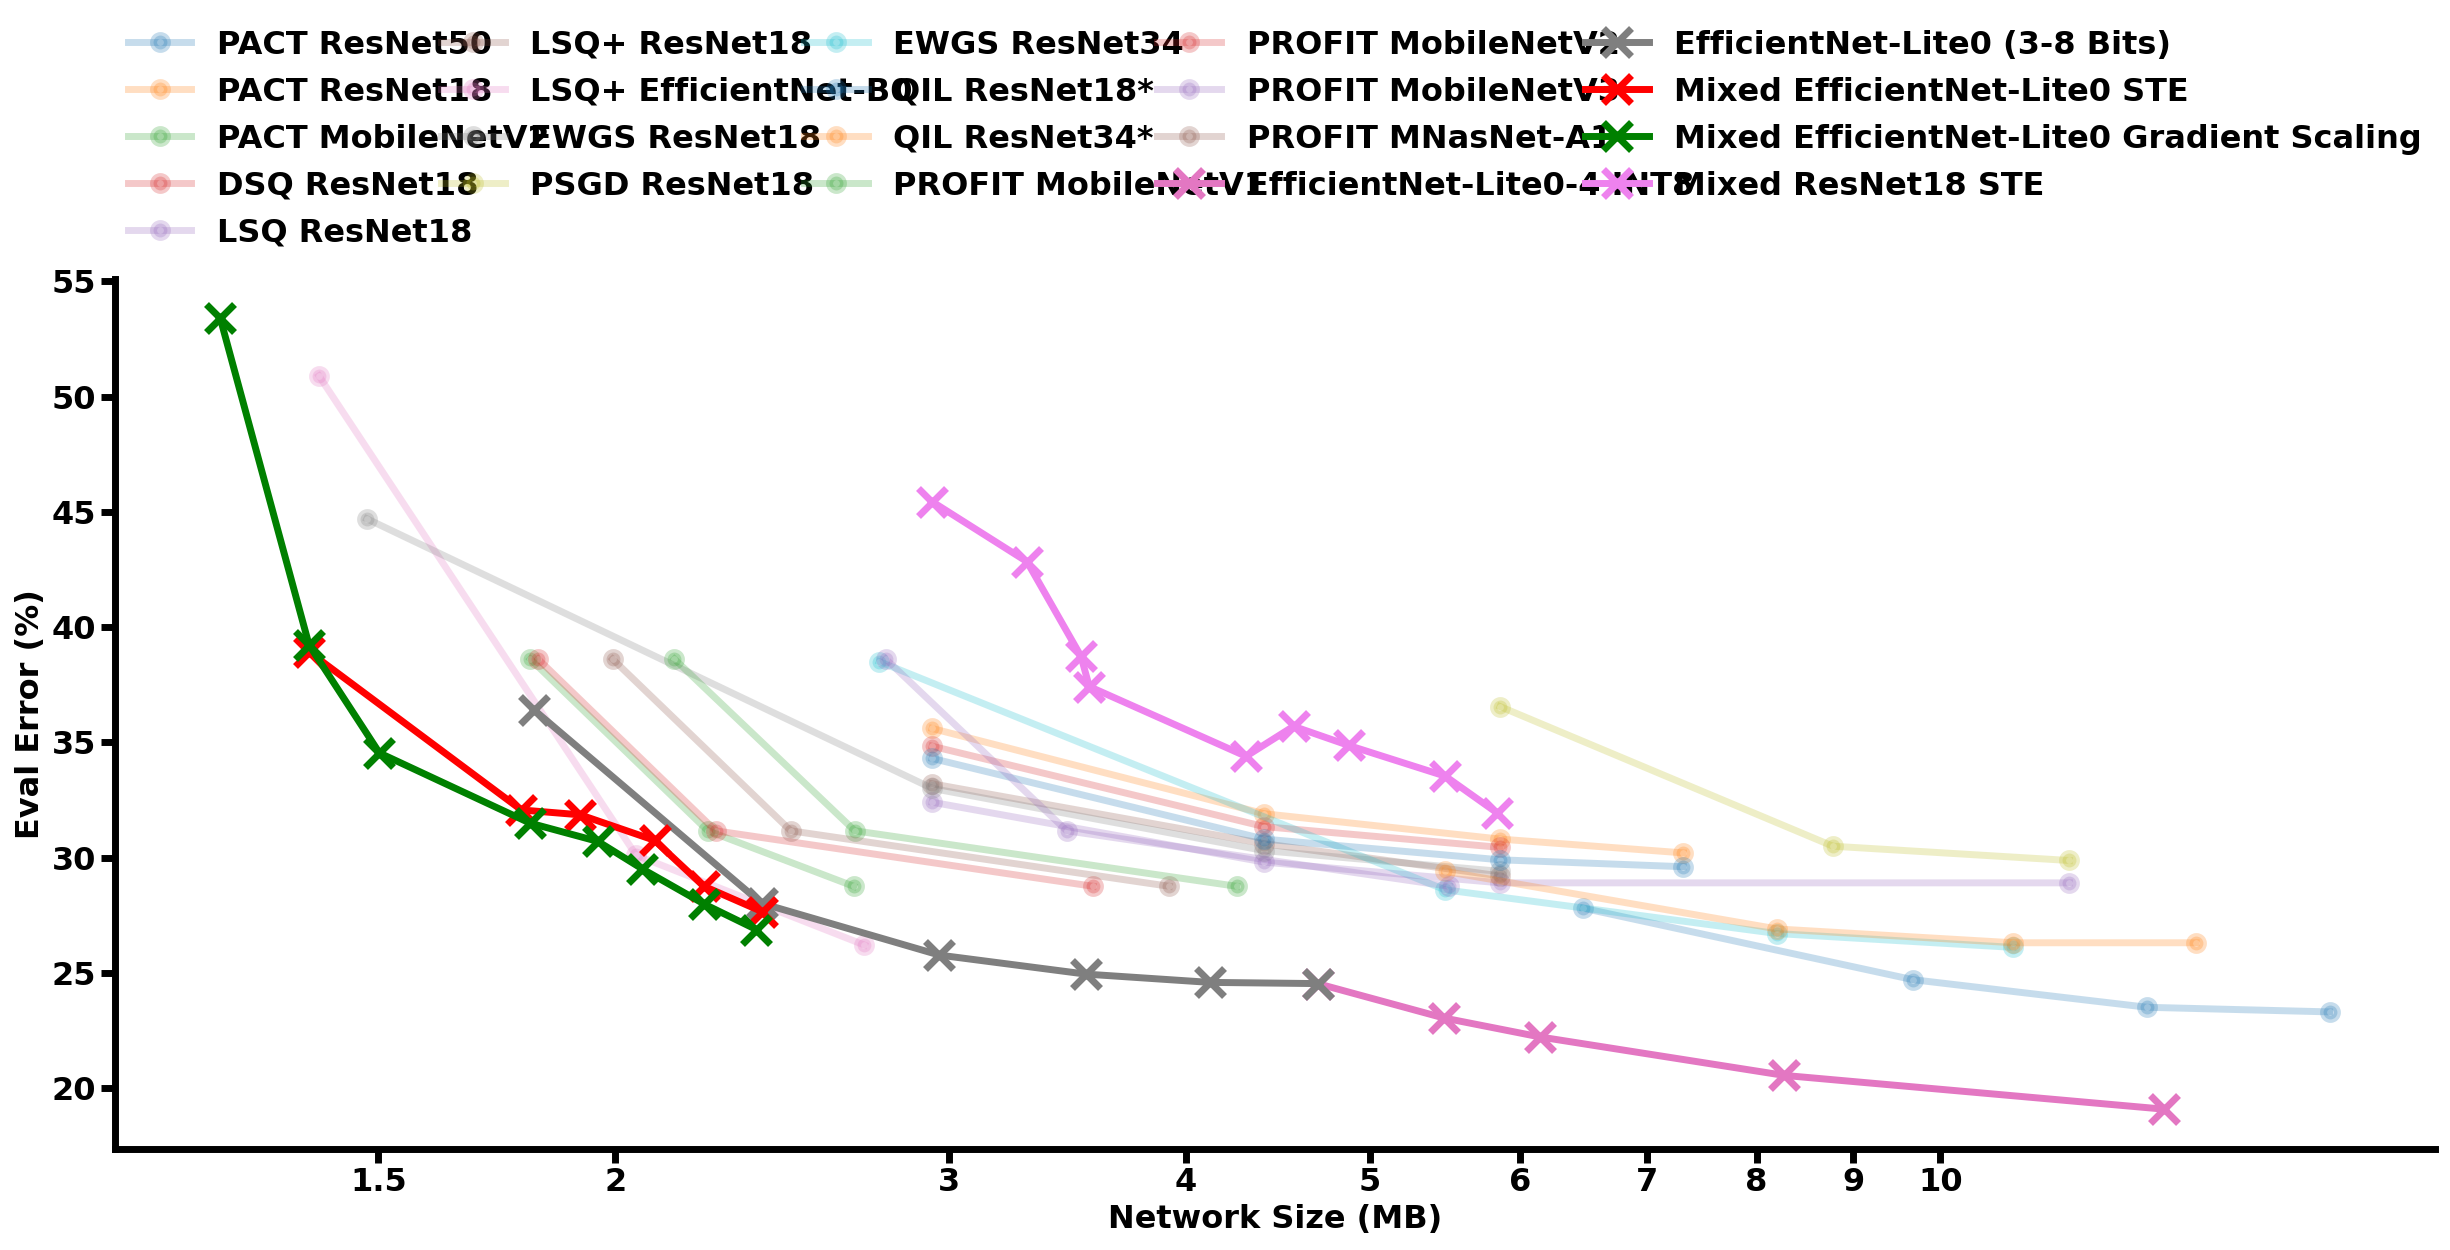
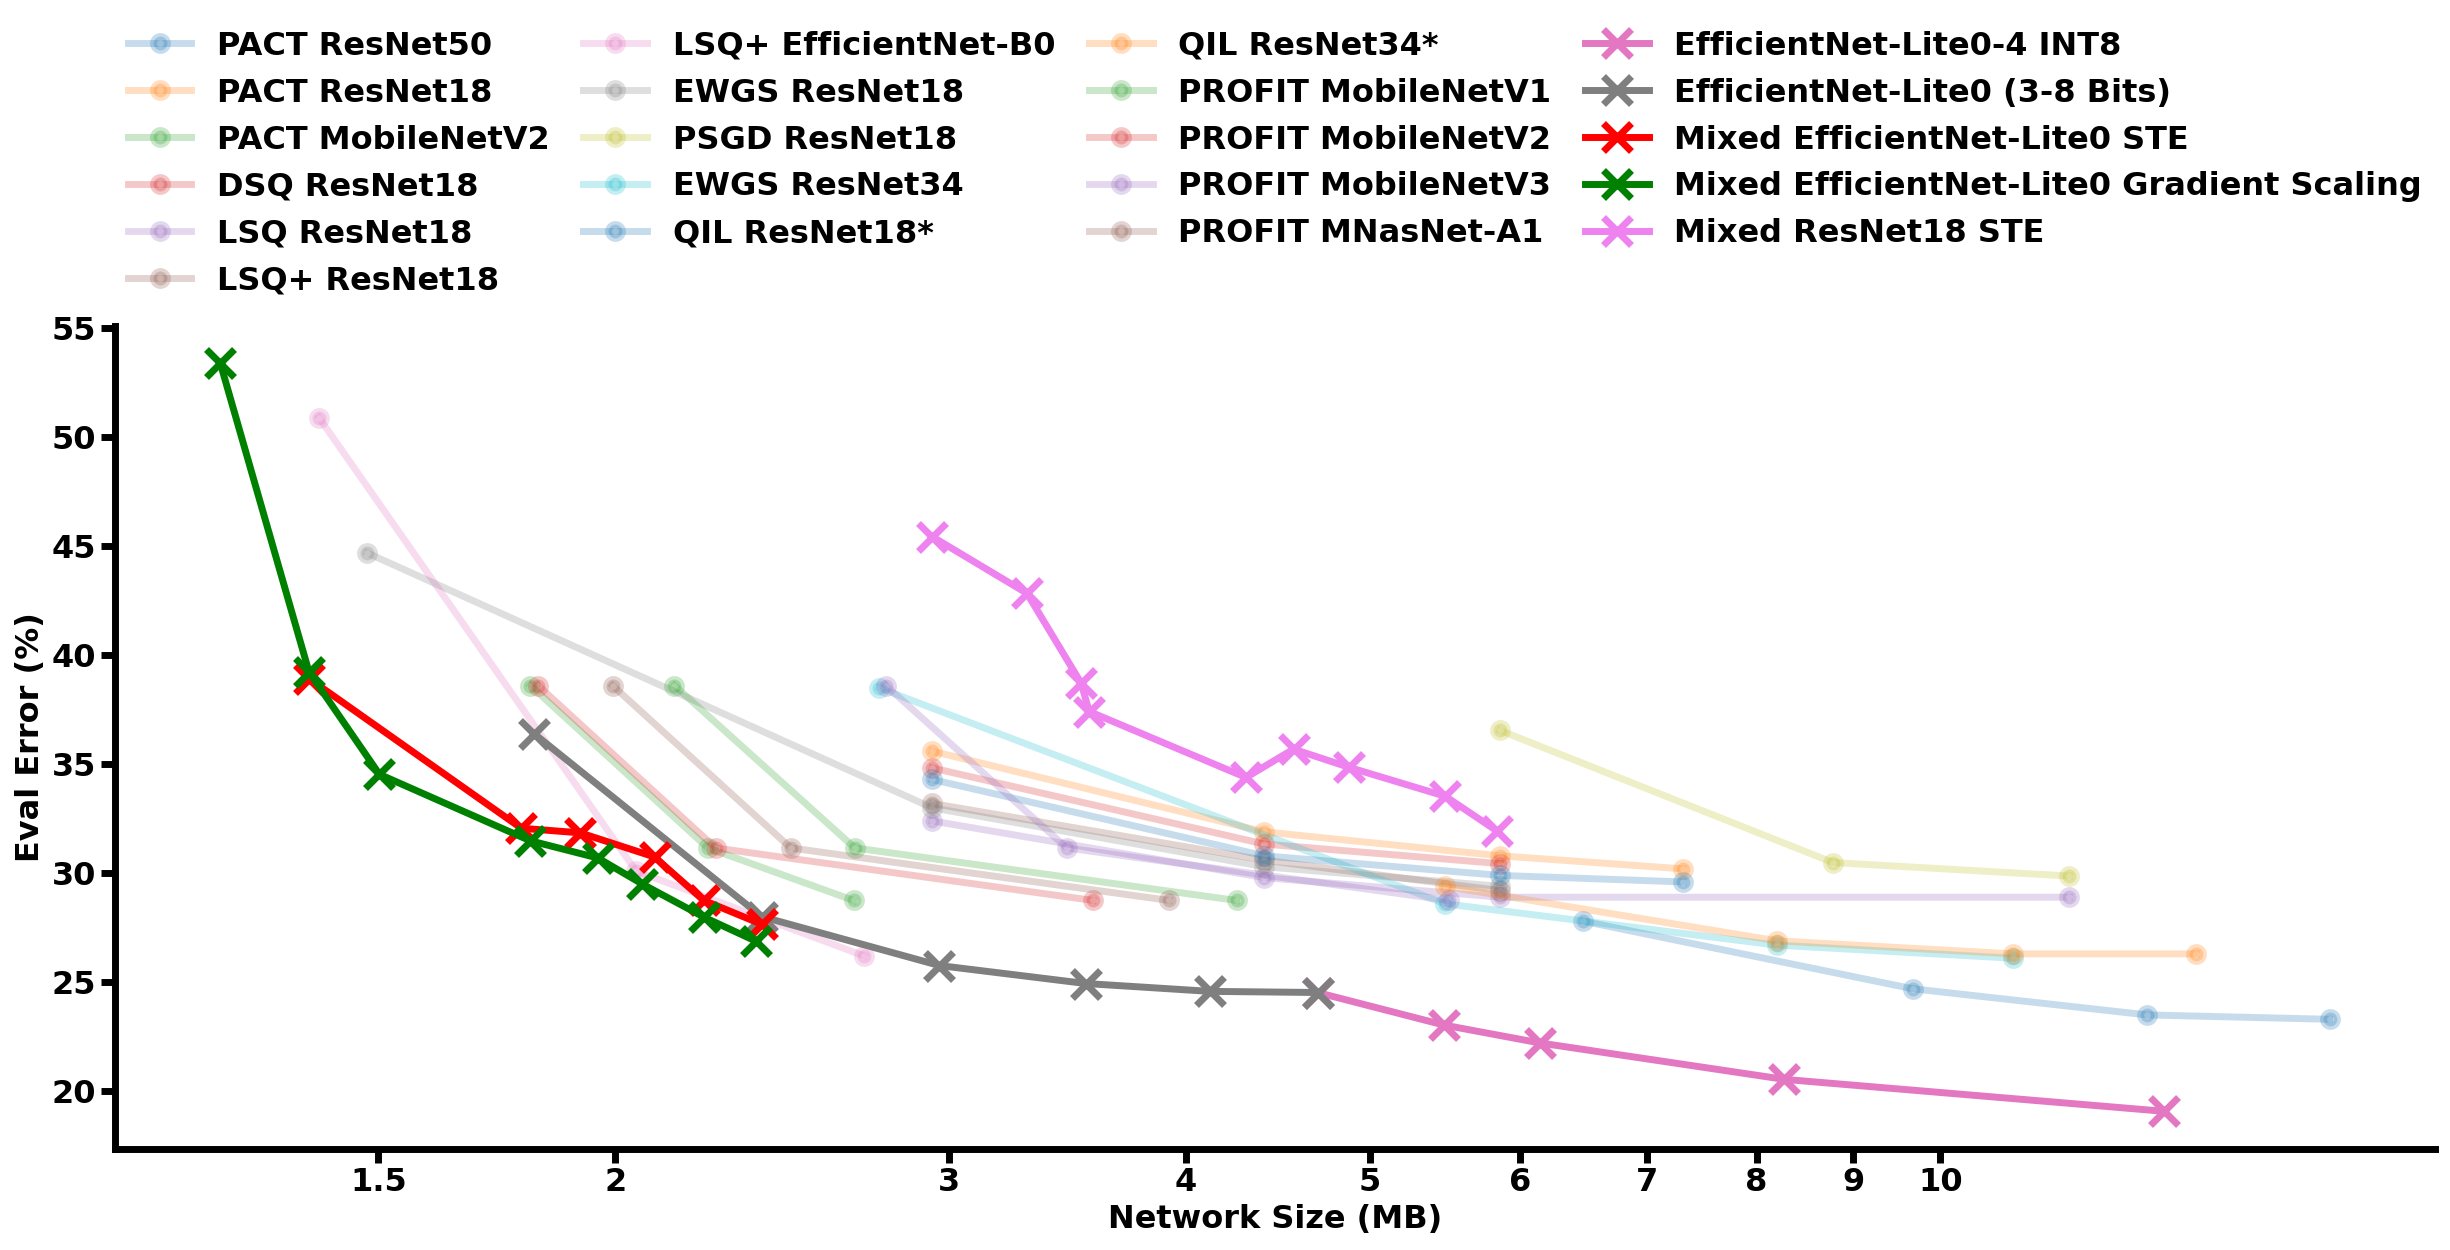
normal - test

diff --git a/examples/efficientnet/visualization.py b/examples/efficientnet/visualization.py
@@ -466,7 +466,7 @@ def plot_comparison(name):
   plt.legend(
       bbox_to_anchor=(0,1.02,1,0.2),
       loc="lower left",
-      ncol=5,
+      ncol=4,
       mode="expand",
       borderaxespad=0,
       frameon=False,
